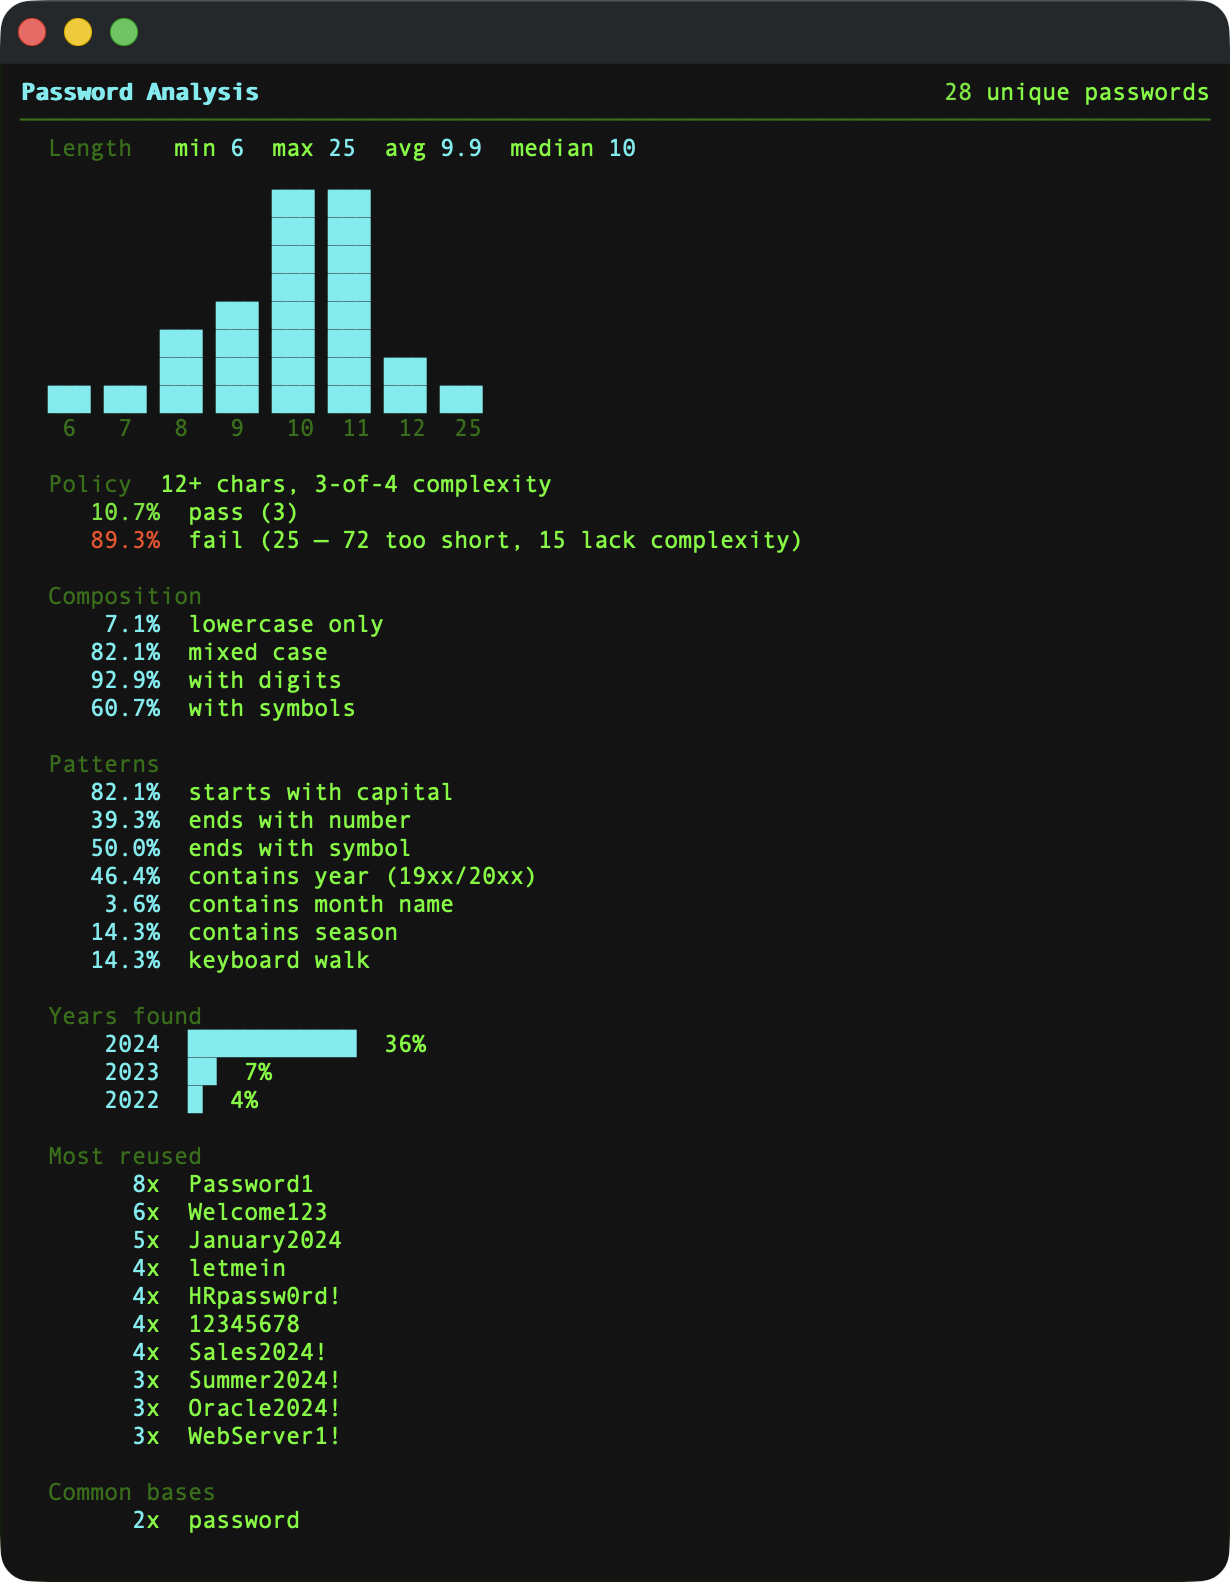
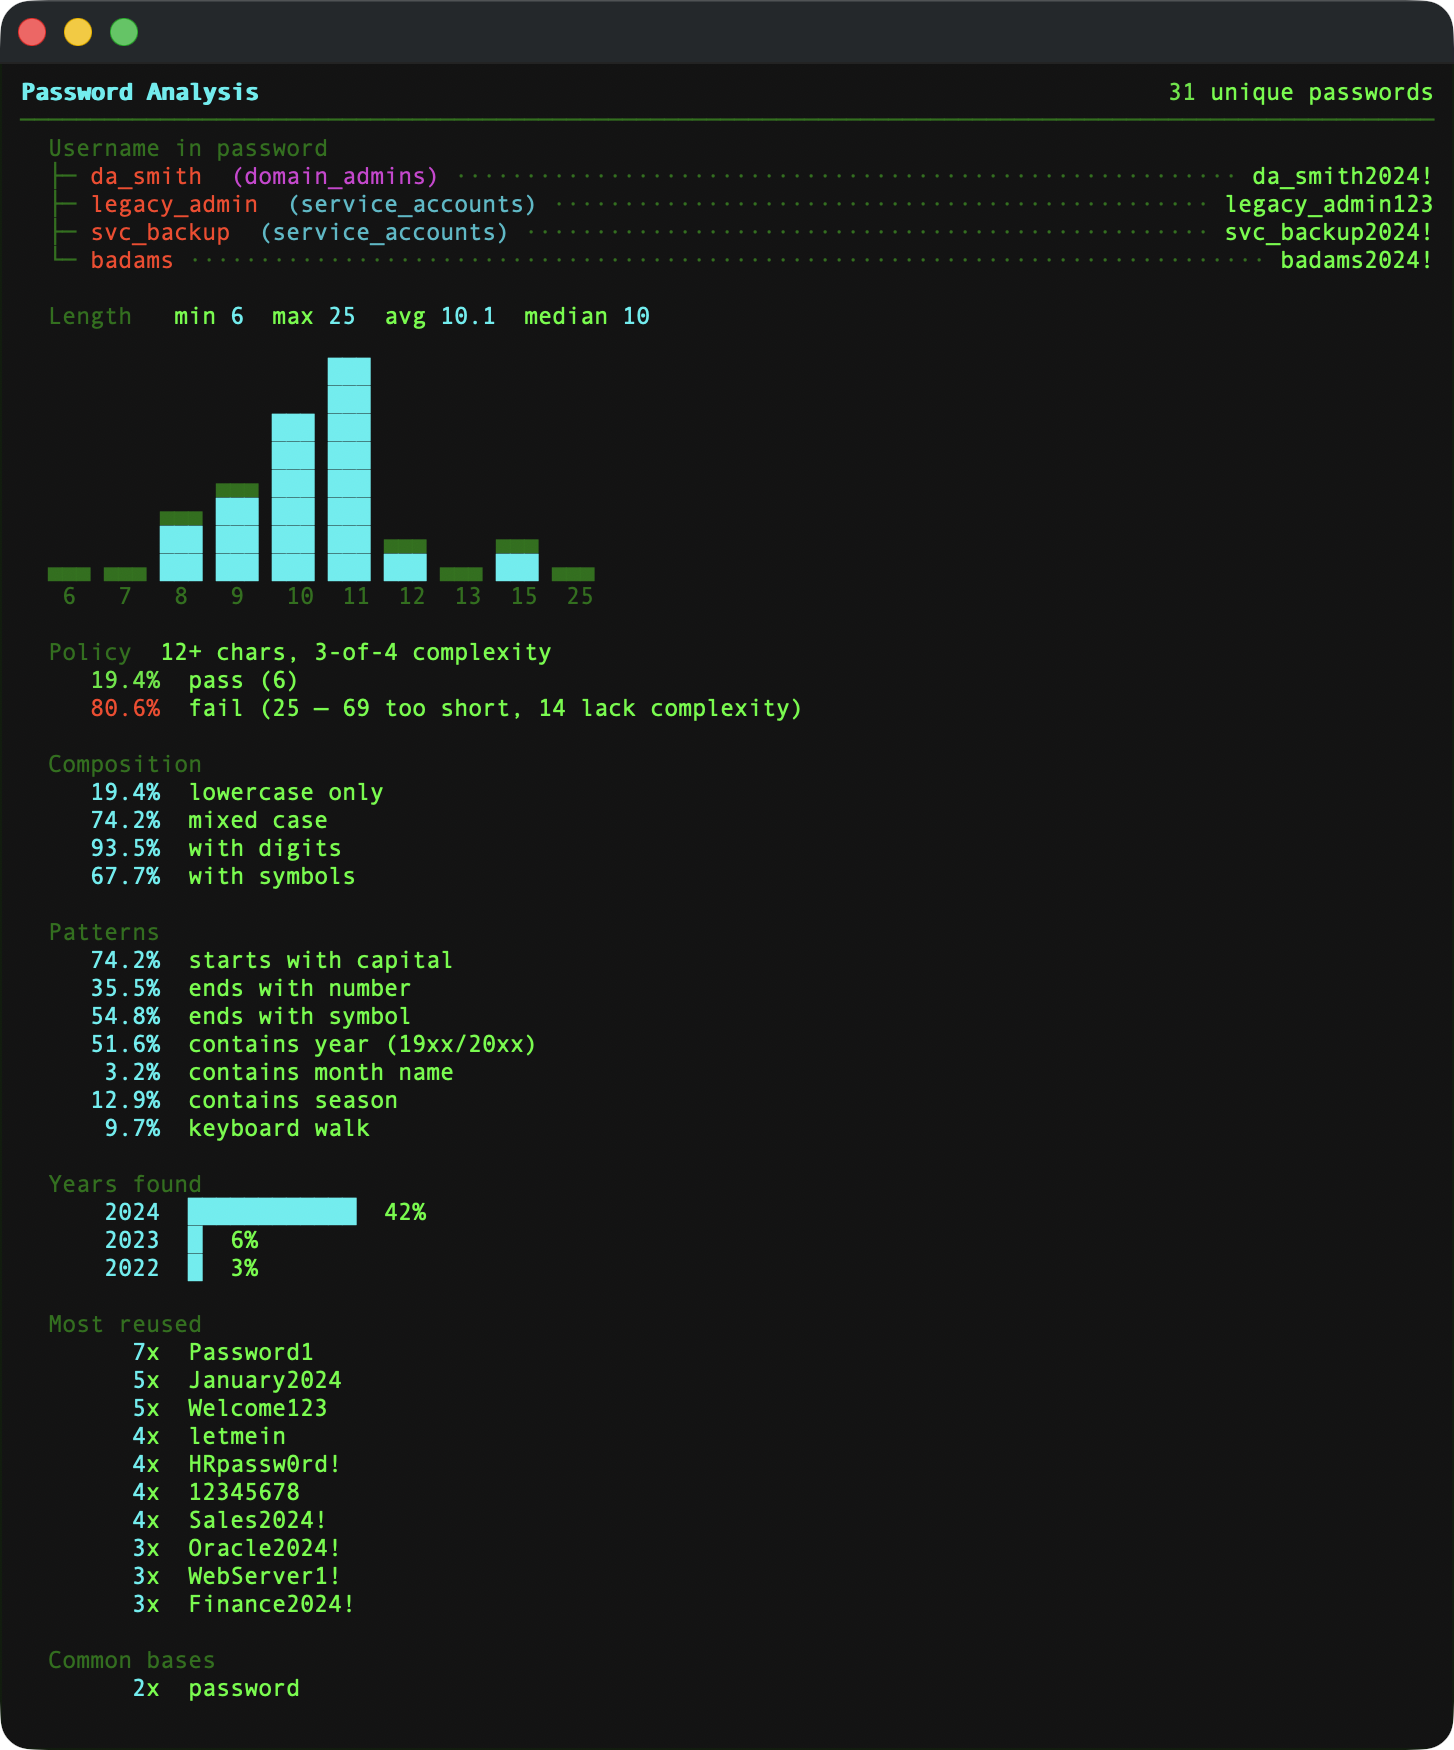
New analysis features, checks for user-as-pass by default, minor bug fixes

diff --git a/tattletale.py b/tattletale.py
@@ -20,7 +20,7 @@ from statistics import median
 # Constants
 # =============================================================================
 
-VERSION = "3.0.0"
+VERSION = "3.1.0"
 MAX_DISPLAY = 10  # Maximum items to show in lists before truncating
 HIST_HEIGHT = 8  # Rows for histogram display
 BAR_MAX_WIDTH = 12  # Maximum width for bar charts
@@ -298,16 +298,15 @@ def print_help():
     print(f"    {C.C}-p, --pot{C.X} <file>           Hashcat potfile with cracked hashes")
     print(f"    {C.C}-t, --targets{C.X} <files>      Target lists, space-separated (e.g. -t admins.txt svc.txt)")
     print(f"    {C.C}-o, --output{C.X} <dir>         Export reports to directory")
-    print(f"    {C.C}-r, --redact-partial{C.X}       Show first two chars only (Pa**********)")
-    print(f"    {C.C}-R, --redact-full{C.X}          Hide passwords completely (************)")
+    print(f"    {C.C}-r, --redact{C.X}               Hide passwords completely (************)")
+    print(f"    {C.C}-R, --redact-partial{C.X}       Show first two chars only (Pa**********)")
     print(f"    {C.C}-h, --help{C.X}                 Show this help message")
-    print(f"    {C.C}-V, --version{C.X}              Show version number")
+    print(f"    {C.C}-v, --version{C.X}              Show version number")
     print()
     print(f"{C.BD}POLICY{C.X} {C.DM}(check cracked passwords against requirements){C.X}")
     print(f"    {C.C}--policy-length{C.X} <n>        Minimum password length")
     print(f"    {C.C}--policy-complexity{C.X} <n>    Require n-of-4 character classes (1-4)")
     print(f"                               {C.DM}(uppercase, lowercase, digit, symbol){C.X}")
-    print(f"    {C.C}--policy-no-username{C.X}       Password must not contain username")
     print()
     print(f"{C.BD}EXAMPLES{C.X}")
     print(f"    {C.DM}# Basic analysis{C.X}")
@@ -344,7 +343,7 @@ def main():
         sys.exit(0)
 
     # Check for version flag
-    if "-V" in sys.argv or "--version" in sys.argv:
+    if "-v" in sys.argv or "--version" in sys.argv:
         print(f"TattleTale v{VERSION}")
         sys.exit(0)
 
@@ -353,11 +352,10 @@ def main():
     parser.add_argument("-p", "--pot")
     parser.add_argument("-t", "--targets", nargs="+")
     parser.add_argument("-o", "--output")
-    parser.add_argument("-r", "--redact-partial", action="store_true")
-    parser.add_argument("-R", "--redact-full", action="store_true")
+    parser.add_argument("-r", "--redact", action="store_true")
+    parser.add_argument("-R", "--redact-partial", action="store_true")
     parser.add_argument("--policy-length", type=int)
     parser.add_argument("--policy-complexity", type=int, choices=[1, 2, 3, 4])
-    parser.add_argument("--policy-no-username", action="store_true")
     parser.add_argument("-h", "--help", action="store_true")
 
     # Capture stderr to suppress argparse's ugly output
@@ -375,7 +373,7 @@ def main():
             return password
         gr = C.GR if color else ""
         x = C.X if color else ""
-        if args.redact_full:
+        if args.redact:
             return f"{gr}************{x}"
         if args.redact_partial:
             prefix = password[:2] if len(password) >= 2 else password[0]
@@ -551,7 +549,7 @@ def main():
     # ==========================================================================
     # High Value Targets (grouped by target file)
     # ==========================================================================
-    if targets:
+    if target_creds:
         # Group credentials by target file
         file_to_creds: dict[str, list[Credential]] = {}
         for cred in target_creds:
@@ -595,7 +593,7 @@ def main():
                 if cred.is_cracked:
                     pwd_display = redact(cred.cleartext)
                     # Calculate visible length accounting for redaction
-                    if args.redact_full:
+                    if args.redact:
                         right_len = 12  # "************"
                     elif args.redact_partial:
                         right_len = 12  # "XX**********"
@@ -638,17 +636,17 @@ def main():
             if cleartext:
                 pwd_display = redact(cleartext)
                 # Calculate visible length accounting for redaction
-                if args.redact_full:
+                if args.redact:
                     pwd_visible_len = 12  # "************"
                 elif args.redact_partial:
                     pwd_visible_len = 12  # "XX**********"
                 else:
                     pwd_visible_len = len(cleartext)
             else:
-                hash_display = redact(hash_val, color=False) if (args.redact_full or args.redact_partial) else hash_val
+                hash_display = redact(hash_val, color=False) if (args.redact or args.redact_partial) else hash_val
                 pwd_display = f"{C.O}{hash_display} (not cracked){C.X}"
                 # Visible: hash_display + " (not cracked)"
-                if args.redact_full:
+                if args.redact:
                     pwd_visible_len = 12 + len(" (not cracked)")
                 elif args.redact_partial:
                     pwd_visible_len = 12 + len(" (not cracked)")
@@ -748,6 +746,51 @@ def main():
         unique_passwords = list(set(cracked_passwords))
         header("Password Analysis", f"{C.G}{len(unique_passwords)}{C.X} unique passwords")
 
+        # ── Username in Password ──
+        username_in_pwd_creds = [c for c in all_credentials
+                                  if c.is_cracked and c.cleartext and c.sam_account_name
+                                  and c.sam_account_name.lower() in c.cleartext.lower()]
+        if username_in_pwd_creds:
+            count = len(username_in_pwd_creds)
+            if args.redact or args.redact_partial:
+                label = "account" if count == 1 else "accounts"
+                targeted_creds = [c for c in username_in_pwd_creds if c.is_target]
+                if targeted_creds:
+                    # Collect all target files
+                    target_files_set = set()
+                    for c in targeted_creds:
+                        target_files_set.update(c.target_files)
+                    labels = ", ".join(f"{label_color(f)}({target_label(f)}){C.X}" for f in sorted(target_files_set))
+                    print(f"  {C.DM}Username in password{C.X}  {C.R}{count}{C.X} {label} — {len(targeted_creds)} in {labels}")
+                else:
+                    print(f"  {C.DM}Username in password{C.X}  {C.R}{count}{C.X} {label}")
+            else:
+                print(f"  {C.DM}Username in password{C.X}")
+                # Sort with targets first
+                sorted_creds = sorted(username_in_pwd_creds, key=lambda c: (not c.is_target, c.sam_account_name.lower()))
+                display_creds = sorted_creds[:MAX_DISPLAY]
+                remaining = max(0, len(sorted_creds) - MAX_DISPLAY)
+                for i, cred in enumerate(display_creds):
+                    is_last = (i == len(display_creds) - 1) and remaining == 0
+                    prefix = "└─" if is_last else "├─"
+                    # Build left side: username and optional target label
+                    if cred.is_target:
+                        labels = ", ".join(f"{label_color(f)}({target_label(f)}){C.X}" for f in cred.target_files)
+                        labels_visible = len(", ".join(f"({target_label(f)})" for f in cred.target_files))
+                        left_side = f"{C.R}{cred.sam_account_name}{C.X}  {labels}"
+                        left_len = 5 + len(cred.sam_account_name) + 2 + labels_visible
+                    else:
+                        left_side = f"{C.R}{cred.sam_account_name}{C.X}"
+                        left_len = 5 + len(cred.sam_account_name)
+                    # Password on right
+                    right_len = len(cred.cleartext)
+                    dots_len = WIDTH - left_len - right_len
+                    dots = " " + "·" * max(dots_len - 2, 1) + " "
+                    print(f"  {C.DM}{prefix}{C.X} {left_side}{C.DM}{dots}{C.X}{cred.cleartext}")
+                if remaining > 0:
+                    print(f"  {C.DM}└─ ... and {remaining} more{C.X}")
+            print()
+
         # ── Length Statistics ──
         lengths = [len(p) for p in cracked_passwords]
         unique_lengths = [len(p) for p in unique_passwords]
@@ -808,7 +851,7 @@ def main():
             print(f"{C.DM}{axis_line}{C.X}")
 
         # ── Policy Compliance ──
-        if args.policy_length or args.policy_complexity or args.policy_no_username:
+        if args.policy_length or args.policy_complexity:
             min_length = args.policy_length or 1  # Default to 1 if not specified
             required_classes = args.policy_complexity or 0
 
@@ -822,25 +865,22 @@ def main():
                 return classes
 
             # Build failure reasons per password
-            def get_failures(pwd, username=None):
+            def get_failures(pwd):
                 failures = []
                 if args.policy_length and len(pwd) < min_length:
                     failures.append("too_short")
                 if args.policy_complexity and count_char_classes(pwd) < required_classes:
                     failures.append("no_complexity")
-                if args.policy_no_username and username:
-                    if username.lower() in pwd.lower():
-                        failures.append("contains_username")
                 return failures
 
-            # Check unique passwords (username check needs credential context)
+            # Check unique passwords
             passing = []
             failing = []
-            fail_reasons = {"too_short": 0, "no_complexity": 0, "contains_username": 0}
+            fail_reasons = {"too_short": 0, "no_complexity": 0}
 
             for cred in all_credentials:
                 if cred.is_cracked and cred.cleartext:
-                    failures = get_failures(cred.cleartext, cred.sam_account_name)
+                    failures = get_failures(cred.cleartext)
                     if failures:
                         failing.append(cred.cleartext)
                         for reason in failures:
@@ -862,8 +902,6 @@ def main():
                     policy_parts.append(f"{min_length}+ chars")
                 if args.policy_complexity:
                     policy_parts.append(f"{required_classes}-of-4 complexity")
-                if args.policy_no_username:
-                    policy_parts.append("no username")
 
                 print()
                 print(f"  {C.DM}Policy{C.X}  {', '.join(policy_parts)}")
@@ -874,8 +912,6 @@ def main():
                     fail_parts.append(f"{fail_reasons['too_short']} too short")
                 if fail_reasons["no_complexity"] > 0:
                     fail_parts.append(f"{fail_reasons['no_complexity']} lack complexity")
-                if fail_reasons["contains_username"] > 0:
-                    fail_parts.append(f"{fail_reasons['contains_username']} contain username")
                 fail_detail = f" — {', '.join(fail_parts)}" if fail_parts else ""
                 print(f"    {C.R}{fail_pct:5.1f}%{C.X}  fail ({unique_failing}{fail_detail})")
 
@@ -946,7 +982,7 @@ def main():
                 print(f"    {C.DM}... and {remaining_years} more{C.X}")
 
         # ── Top Passwords ──
-        if not args.redact_full:
+        if not args.redact:
             password_freq = {}
             for p in cracked_passwords:
                 password_freq[p] = password_freq.get(p, 0) + 1
@@ -976,6 +1012,7 @@ def main():
                 print(f"  {C.DM}Common bases{C.X}")
                 for base, count in duplicates:
                     print(f"    {C.C}{count:5.0f}{C.X}x  {base}")
+
 
     # ==========================================================================
     # Export

diff --git a/README.md b/README.md
@@ -11,22 +11,9 @@ Analyze secretsdump output and hashcat potfiles to find shared passwords, weak c
 
 Built from years of hands-on experience in enterprise penetration testing. Used in real-world assessments of Fortune 500 companies and critical infrastructure.
 
-## What it does
-
-So you've dumped the NTDS.dit and cracked some hashes, but you're left with a wall of text. TattleTale simply surfaces what the data is hiding:
-
-- **Shared credentials** - IT manager uses the same password for both of his accounts
-- **Weak privileged accounts** - 4 domain admins cracked in under an hour
-- **Password patterns** - 60% of passwords follow `Season+Year` format
-- **Legacy security issues** - service accounts still have LM hashes enabled
-- **Empty passwords** - accounts with no password set (often disabled, but verify)
-- **Policy violations** - passwords that don't meet length/complexity requirements
-
-It also tracks high-value targets across multiple lists (domain admins, service accounts, executives) so you can see exactly which critical accounts were compromised at a glance, and if any of those accounts are sharing passwords elsewhere...
-
 ## Install
 
-### pip
+#### pip
 
 ```bash
 pip install ntds-tattletale
@@ -38,7 +25,7 @@ Then run it:
 tattletale -d dump.ntds -p cracked.pot
 ```
 
-### Standalone
+#### Standalone
 
 It's a single Python file with no dependencies. Grab it and go:
 
@@ -47,7 +34,7 @@ curl -O https://raw.githubusercontent.com/coryavra/tattletale/master/tattletale.
 python3 tattletale.py -d dump.ntds -p cracked.pot
 ```
 
-### Container
+#### Container
 
 The included `Containerfile` works with [Apple Containers](https://github.com/apple/containerization) (macOS 26+) and Docker (OCI-compliant).
 
